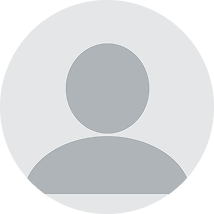
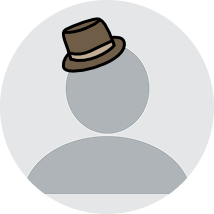
getting rid of friends UI, adding custom profile pic...

Changed region(s): [[0.2804, 0.0561, 0.5888, 0.3645]]

diff --git a/watchhat-app/src/components/UserPage.tsx b/watchhat-app/src/components/UserPage.tsx
@@ -22,13 +22,6 @@ const userPage = () => {
                     </div>
                 </div>
             </div>
-            
-            <div className="p-4 rounded-xl bg-warm-gray text-[25px] font-bold">
-            Friends
-            <div className="flex flex-row outline-3 outline-black bg-[#C2AD96] rounded-xl w-[400px] h-[100px] items-center content-center text-center text-black justify-center">
-                Your Mom
-            </div>
-            </div>
         </div>
     );
 }
